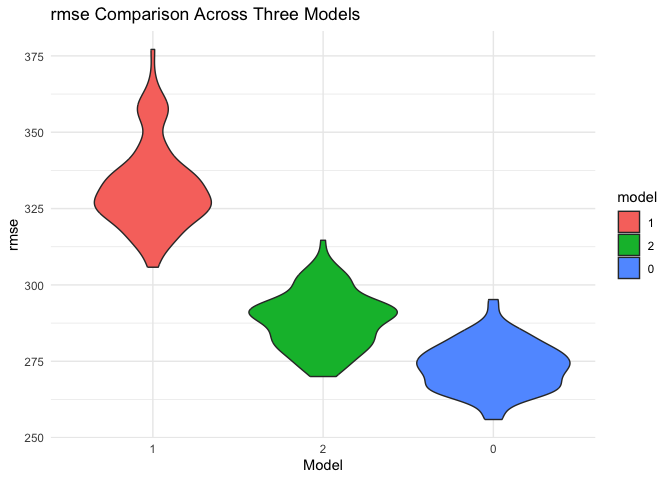
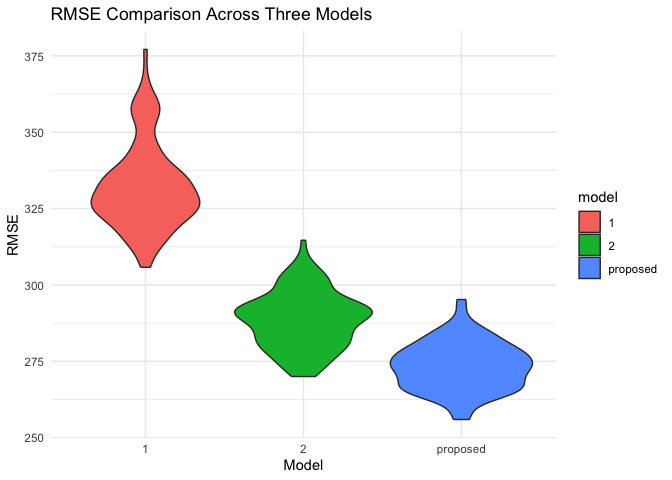
last

diff --git a/p8105_hw6_dw3093.md b/p8105_hw6_dw3093.md
@@ -433,7 +433,7 @@ model’s predictions.
 ``` r
 model_1 <- lm(bwt ~ blength + gaweeks, data = birthweight)
 model_2 <- lm(bwt ~ bhead * blength * babysex, data = birthweight)
-model_0 <- lm(bwt ~ babysex + bhead + blength + delwt + fincome + frace + gaweeks + malform + menarche + mheight + momage + mrace + parity + pnumlbw + pnumsga + ppbmi + ppwt + smoken + wtgain, data = birthweight)
+model_proposed <- lm(bwt ~ babysex + bhead + blength + delwt + fincome + frace + gaweeks + malform + menarche + mheight + momage + mrace + parity + pnumlbw + pnumsga + ppbmi + ppwt + smoken + wtgain, data = birthweight)
 
 set.seed(1)
 cv <- crossv_mc(birthweight, 100) %>%
@@ -442,38 +442,38 @@ cv <- crossv_mc(birthweight, 100) %>%
     test = map(test, as_tibble),
     model_1 = map(train, ~ lm(bwt ~ blength + gaweeks, data = .x)),
     model_2 = map(train, ~ lm(bwt ~ bhead * blength * babysex, data = .x)),
-    model_0 = map(train, ~ lm(bwt ~ babysex + bhead + blength + delwt + fincome + frace + gaweeks + malform + menarche + mheight + momage + mrace + parity + pnumlbw + pnumsga + ppbmi + ppwt + smoken + wtgain, data = .x))
+    model_proposed = map(train, ~ lm(bwt ~ babysex + bhead + blength + delwt + fincome + frace + gaweeks + malform + menarche + mheight + momage + mrace + parity + pnumlbw + pnumsga + ppbmi + ppwt + smoken + wtgain, data = .x))
   ) %>%
   mutate(
     rmse_1 = map2_dbl(model_1, test, ~ rmse(.x, .y)),
     rmse_2 = map2_dbl(model_2, test, ~ rmse(.x, .y)),
-    rmse_0 = map2_dbl(model_0, test, ~ rmse(.x, .y))
+    rmse_proposed = map2_dbl(model_proposed, test, ~ rmse(.x, .y))
   )
 ```
 
     ## Warning: There was 1 warning in `mutate()`.
-    ## ℹ In argument: `rmse_0 = map2_dbl(model_0, test, ~rmse(.x, .y))`.
+    ## ℹ In argument: `rmse_proposed = map2_dbl(model_proposed, test, ~rmse(.x, .y))`.
     ## Caused by warning in `predict.lm()`:
     ## ! prediction from rank-deficient fit; attr(*, "non-estim") has doubtful cases
 
 ``` r
 cv_summary <- cv %>%
-  select(rmse_1, rmse_2, rmse_0) %>%
+  select(rmse_1, rmse_2, rmse_proposed) %>%
   pivot_longer(cols = everything(), names_to = "model", values_to = "rmse") %>%
   mutate(model = recode(model,
                         "rmse_1" = "Model 1",
                         "rmse_2" = "Model 2",
-                        "rmse_0" = "Model 0")) %>%
+                        "rmse_proposed" = "Model Proposed")) %>%
   group_by(model) %>%
   summarize(mean_rmse = mean(rmse))
 cv_summary %>% knitr::kable(digits = 3)
 ```
 
-| model   | mean_rmse |
-|:--------|----------:|
-| Model 0 |   273.315 |
-| Model 1 |   332.229 |
-| Model 2 |   288.603 |
+| model          | mean_rmse |
+|:---------------|----------:|
+| Model 1        |   332.229 |
+| Model 2        |   288.603 |
+| Model Proposed |   273.315 |
 
 ``` r
 cv %>%
@@ -487,11 +487,30 @@ cv %>%
   ggplot(aes(x = model, y = rmse, fill = model)) +
   geom_violin() +
   labs(
-    title = "rmse Comparison Across Three Models",
+    title = "RMSE Comparison Across Three Models",
     x = "Model",
-    y = "rmse"
+    y = "RMSE"
   ) +
   theme_minimal()
 ```
 
 ![](p8105_hw6_dw3093_files/figure-gfm/unnamed-chunk-10-1.png)<!-- -->
+
+Comments: Model 1, which includes only birth length and gestational age
+as predictors, has the highest RMSE and the widest variability,
+indicating poor predictive performance. Its simplicity limits its
+ability to account for key factors influencing birthweight, making it
+the least effective model.
+
+Model 2 improves upon Model 1 by incorporating head circumference, birth
+length, sex, and their interactions. This enhancement reduces RMSE and
+variability, demonstrating better predictive accuracy.
+
+The proposed model, which includes a comprehensive set of maternal,
+socioeconomic, and baby-specific predictors, achieves the lowest RMSE
+and the narrowest variability, reflecting its superior ability to
+predict birthweight. While it is the most accurate and reliable model,
+its complexity could pose challenges for practical application and
+interpretation, especially in resource-constrained settings. In
+contrast, Model 2 offers a reasonable trade-off between simplicity and
+predictive performance, making it a more practical option
